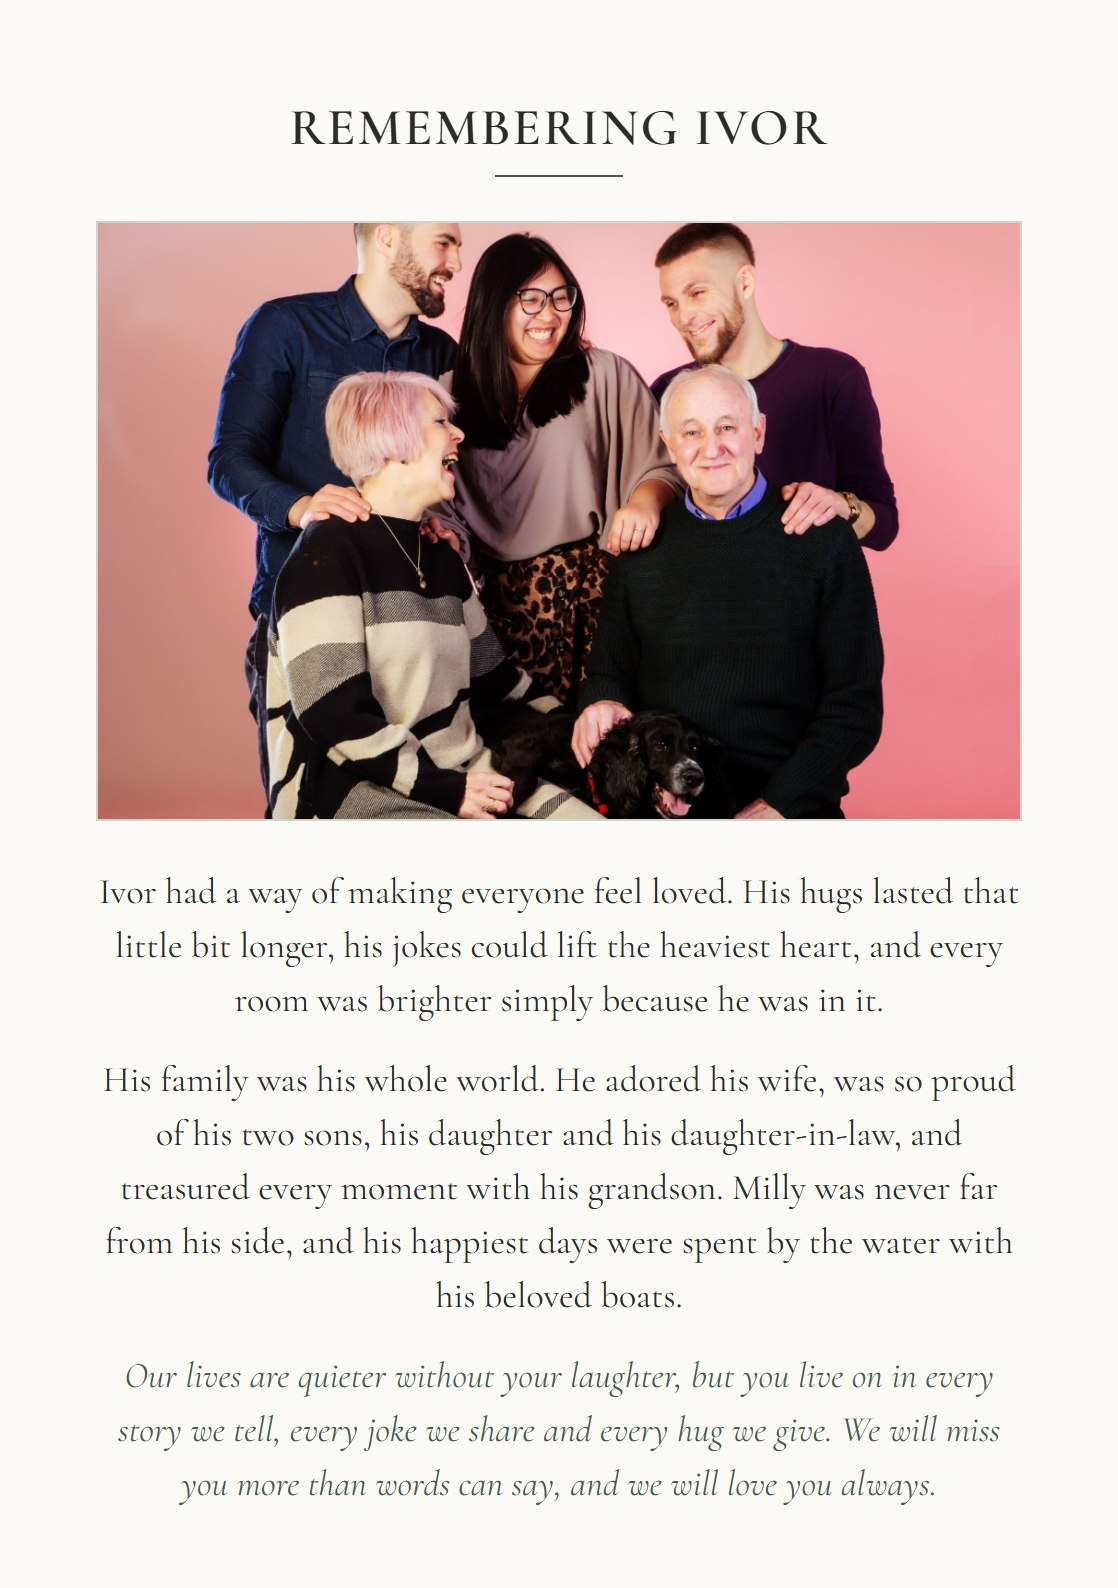
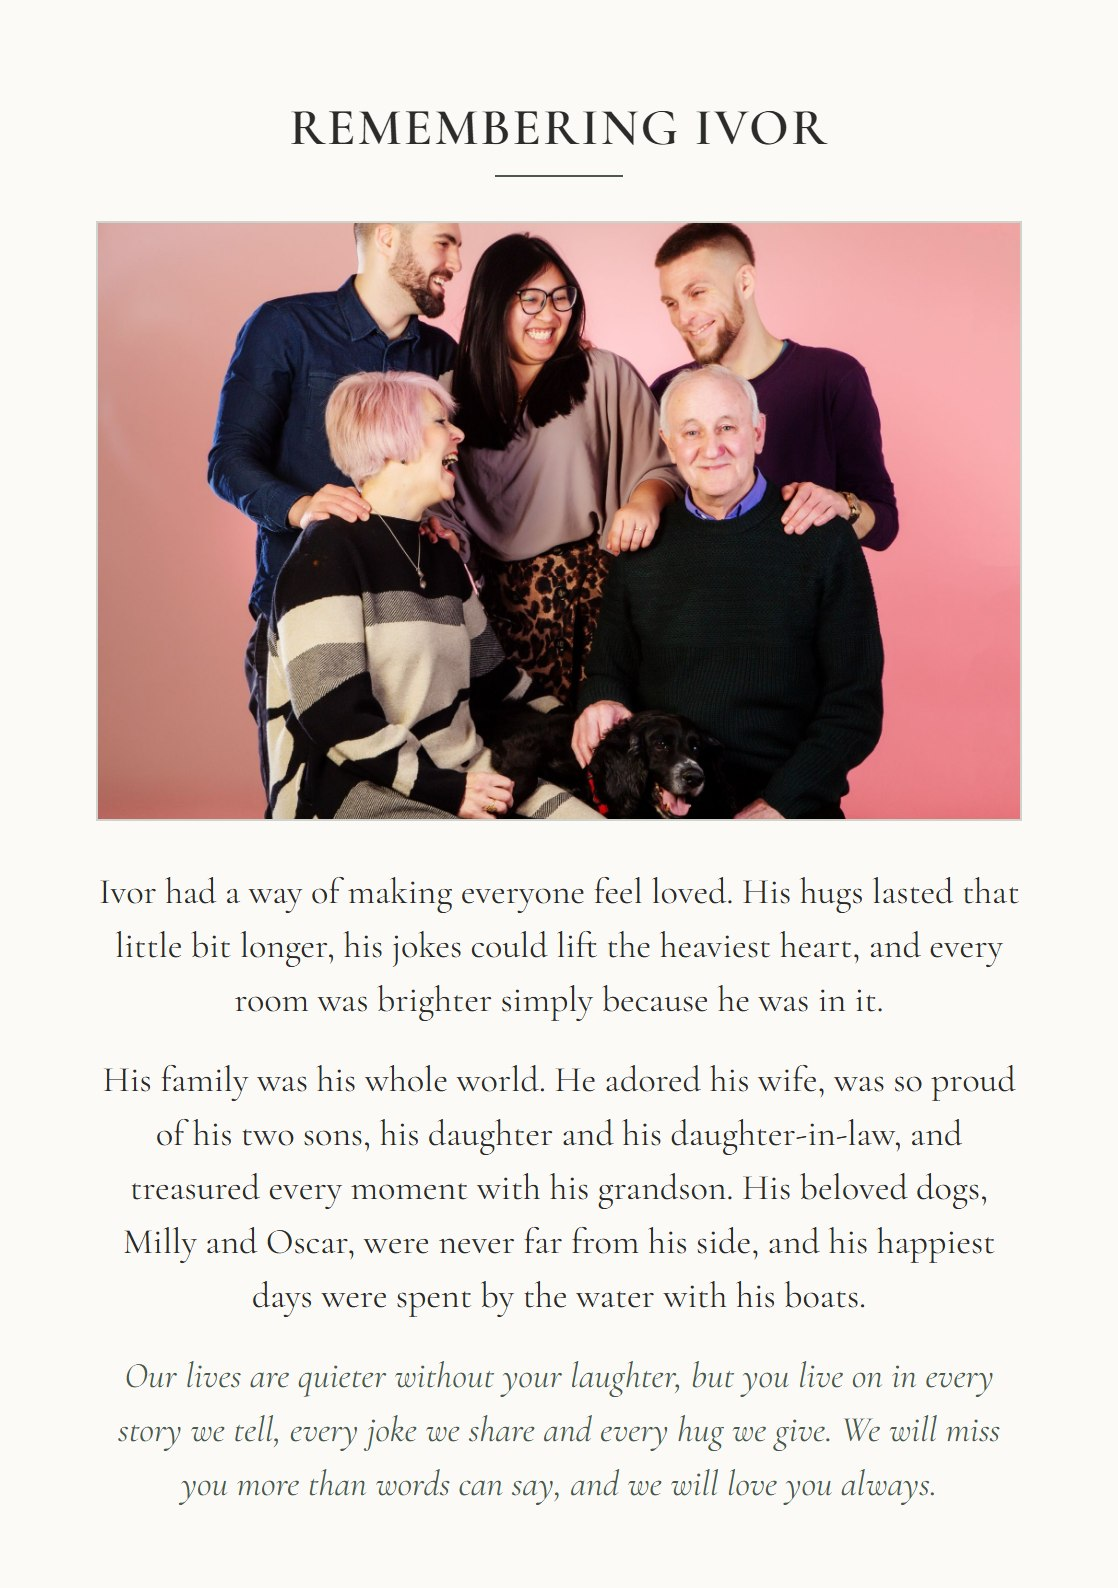
Page 5: Milly and Oscar

Changed region(s): [[0.0912, 0.7406, 0.8819, 0.8331]]

diff --git a/index.html b/index.html
@@ -346,7 +346,7 @@ const DRAFTS=[
  ["Order of service","p2","Page 2 · Order of service","drafts/Ivor-2-order-of-service.jpg?v=14"],
  ["Order of service","p3","Page 3 · Hymn","drafts/Ivor-3-hymn.jpg?v=13"],
  ["Order of service","p5","Page 4 · Reading","drafts/Ivor-5-about-ivor.jpg?v=10"],
- ["Order of service","p6","Page 5 · Remembering Ivor","drafts/Ivor-6-photos.jpg?v=10"],
+ ["Order of service","p6","Page 5 · Remembering Ivor","drafts/Ivor-6-photos.jpg?v=11"],
  ["Order of service","col","Page 6 · Photo collage","drafts/Ivor-7-collage.jpg?v=15"],
  ["Order of service","p7","Page 7 · Thank you and afterwards","drafts/Ivor-7-thank-you.jpg?v=8"],
  ["Order of service","p8","Page 8 · Back cover","drafts/Ivor-8-back-cover.jpg?v=2"],

diff --git a/flip/order-of-service.html b/flip/order-of-service.html
@@ -23,7 +23,7 @@
   </nav>
   <p class="hint">Tap or drag a page corner to turn it.</p>
 </main>
-<script>window.BOOK = { label: "Order of service", pages: ["pages/oos-1.jpg","pages/oos-2.jpg","pages/oos-3.jpg","pages/oos-4.jpg","pages/oos-5.jpg","pages/oos-6.jpg","pages/oos-7.jpg?v=2","pages/oos-8.jpg"] };</script>
+<script>window.BOOK = { label: "Order of service", pages: ["pages/oos-1.jpg","pages/oos-2.jpg","pages/oos-3.jpg","pages/oos-4.jpg","pages/oos-5.jpg?v=2","pages/oos-6.jpg","pages/oos-7.jpg?v=2","pages/oos-8.jpg"] };</script>
 <script src="https://cdn.jsdelivr.net/npm/page-flip@2.0.7/dist/js/page-flip.browser.js"></script>
 <script src="flip.js"></script>
 </body>
